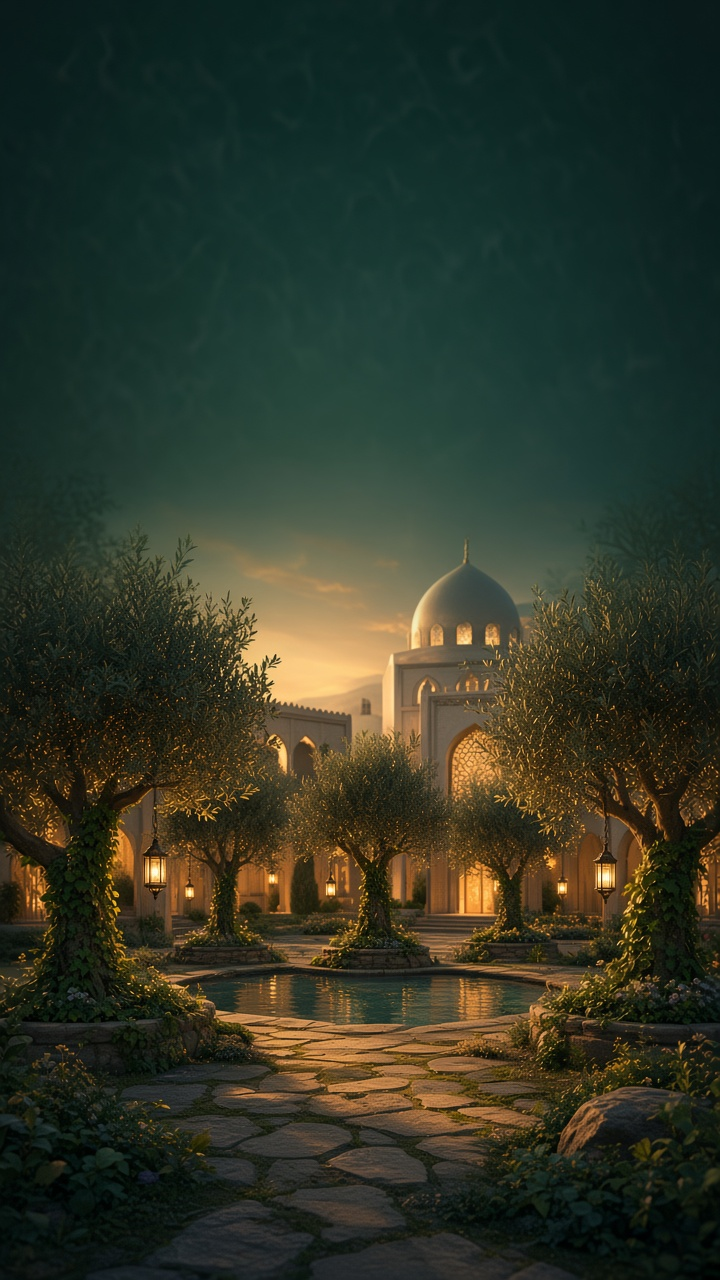
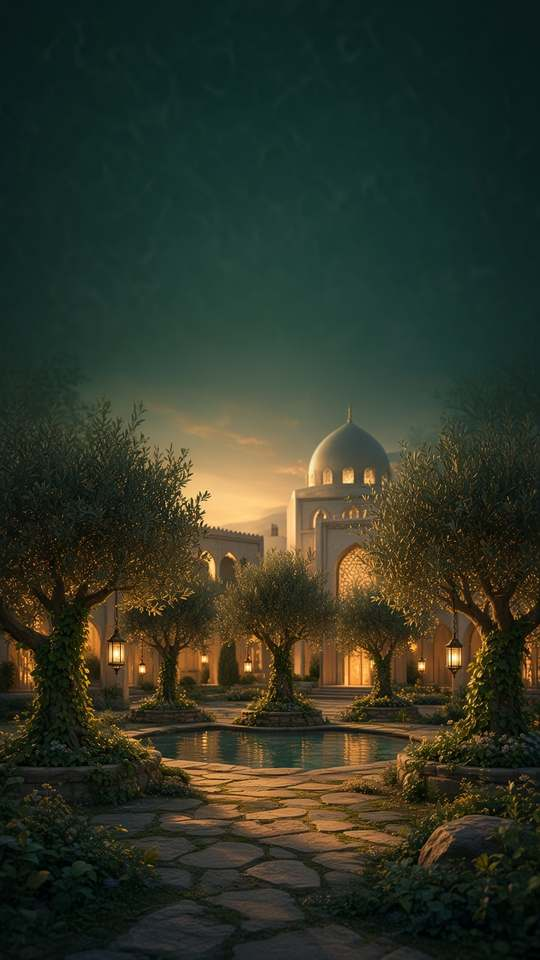
Cut the first-visit cost that kept Lighthouse under 80.
Drop Payload's critical colour-scheme hint, stop the Google font sheet blocking first paint, and shrink the courtyard scenes. Course thumbs lazy-load, feed tiles no longer pull full-bleed slides, and the Me page paints its saved example and install row in the first HTML so the page does not jump.

diff --git a/hearts-prototype/src/screens/app/course-home.tsx b/hearts-prototype/src/screens/app/course-home.tsx
@@ -66,6 +66,15 @@ function Tick({ on }: { on: boolean }) {
   return <i className={on ? 'on' : ''} data-done={on ? 'yes' : 'no'} />
 }
 
+function Thumb({ src, eager }: { src: string | null; eager?: boolean }) {
+  if (!src) return <span className="thumb" />
+  return (
+    <span className="thumb">
+      <img src={src} alt="" decoding="async" loading={eager ? 'eager' : 'lazy'} fetchPriority={eager ? 'high' : 'low'} />
+    </span>
+  )
+}
+
 export async function CourseHomeScreen({ payload, user, portal, base, query }: Ctx) {
   const courseIds = await visibleCourseIds(payload, user)
   const [courses, lessonRows, unitRows] = await Promise.all([
@@ -96,7 +105,7 @@ export async function CourseHomeScreen({ payload, user, portal, base, query }: C
         <div className="app-head"><h1>Courses</h1></div>
         {carry?.next ? (
           <article className="carry-on" data-testid="carry-on">
-            <span className="thumb" style={carry.poster ? { backgroundImage: `url(${carry.poster})` } : undefined} />
+            <Thumb src={carry.poster} eager />
             <p className="eyebrow">Carry on</p>
             <h2>{carry.nextAt + 1}. {str(carry.next.title)}</h2>
             <p className="muted">{str(carry.course.title)} · {carry.finished} of {carry.own.length} films</p>
@@ -105,7 +114,7 @@ export async function CourseHomeScreen({ payload, user, portal, base, query }: C
           </article>
         ) : <p className="card">Films will show here once a course is added.</p>}
         <div className="course-cards">
-          {cards.map((card) => {
+          {cards.map((card, index) => {
             const groups: { title: string; count: number }[] = []
             for (const lesson of card.own) {
               const title = unitTitle.get(ref(lesson.unit) || 0) || 'Films'
@@ -115,7 +124,7 @@ export async function CourseHomeScreen({ payload, user, portal, base, query }: C
             }
             return (
               <Link key={card.course.id} className="course-card" href={`${base}/course/${card.course.id}`} data-testid="course-card">
-                <span className="thumb" style={card.poster ? { backgroundImage: `url(${card.poster})` } : undefined} />
+                <Thumb src={card.poster} eager={index < 2} />
                 <span className="t">
                   <b>{str(card.course.title)}</b>
                   <small>{card.own.length} film{card.own.length === 1 ? '' : 's'}</small>

diff --git a/hearts-prototype/src/components/app/install-card.tsx b/hearts-prototype/src/components/app/install-card.tsx
@@ -45,13 +45,23 @@ function readState(): InstallState {
 }
 
 function readSurface(kind: InstallState['kind']) {
+  if (typeof window === 'undefined') return kind === 'desktop' ? 'computer' : 'phone'
   const narrow = typeof window.matchMedia === 'function' && window.matchMedia('(max-width: 720px)').matches
   const coarse = typeof window.matchMedia === 'function' && window.matchMedia('(pointer: coarse)').matches
   return installSurface(kind, { narrow, coarse })
 }
 
+const serverInstallState: InstallState = {
+  kind: 'android-chrome',
+  standalone: false,
+  dismissed: false,
+  installed: false,
+  prompt: false,
+}
+
 function useInstallState() {
-  const [state, setState] = useState<InstallState | null>(null)
+  // Paint the row with the HTML so it does not pop in after hydration and shift the page.
+  const [state, setState] = useState<InstallState>(serverInstallState)
   useEffect(() => {
     const sync = () => setState(readState())
     sync()
@@ -72,7 +82,6 @@ function useInstallState() {
 export function InstallCard({ forced = false, onDismiss, sheet = false, strip = false, appName = 'HEARTS' }: { forced?: boolean; onDismiss?: () => void; sheet?: boolean; strip?: boolean; appName?: string }) {
   const [state, setState] = useInstallState()
   const [busy, setBusy] = useState(false)
-  if (!state) return null
   const prompt = state.prompt && offersInstallButton(state.kind)
   if (!shouldShowInstall({ standalone: state.standalone, dismissed: state.dismissed, installed: state.installed, forced })) return null
   const surface = readSurface(state.kind)
@@ -159,7 +168,6 @@ export function KeepHearts({ appName = 'HEARTS' }: { appName?: string }) {
   const [state] = useInstallState()
   const [open, setOpen] = useState(false)
   const [run, setRun] = useState(0)
-  if (!state) return null
   const installed = state.installed || state.standalone
   const entry = installEntry(state.kind, installed, readSurface(state.kind), appName)
   const show = () => {

diff --git a/hearts-prototype/src/app/(frontend)/layout.tsx b/hearts-prototype/src/app/(frontend)/layout.tsx
@@ -55,10 +55,26 @@ export default function Layout({ children }: { children: ReactNode }) {
         <script dangerouslySetInnerHTML={{ __html: installBootScript() }} />
         <link rel="preconnect" href="https://fonts.googleapis.com" />
         <link rel="preconnect" href="https://fonts.gstatic.com" crossOrigin="" />
+        <link rel="preload" as="font" type="font/woff2" href="/fonts/inter-latin-400-normal.woff2" crossOrigin="" />
+        <link rel="preload" as="font" type="font/woff2" href="/fonts/plus-jakarta-sans-latin-700-normal.woff2" crossOrigin="" />
+        {/* Printed first so the sheet does not block the first paint, then applied on load. */}
         <link
-          href="https://fonts.googleapis.com/css2?family=Cormorant+Garamond:ital,wght@0,500;0,600;0,700;1,500&family=Inter:wght@400;500;600;700;800&family=Libre+Caslon+Text:wght@400;700&family=Noto+Naskh+Arabic:wght@500;600&display=swap"
+          id="hh-google-fonts"
           rel="stylesheet"
+          media="print"
+          href="https://fonts.googleapis.com/css2?family=Cormorant+Garamond:ital,wght@0,500;0,600;0,700;1,500&family=Inter:wght@400;500;600;700;800&family=Libre+Caslon+Text:wght@400;700&family=Noto+Naskh+Arabic:wght@500;600&display=swap"
         />
+        <script
+          dangerouslySetInnerHTML={{
+            __html: `(function(){var l=document.getElementById('hh-google-fonts');if(!l)return;l.onload=function(){this.media='all'}})();`,
+          }}
+        />
+        <noscript>
+          <link
+            rel="stylesheet"
+            href="https://fonts.googleapis.com/css2?family=Cormorant+Garamond:ital,wght@0,500;0,600;0,700;1,500&family=Inter:wght@400;500;600;700;800&family=Libre+Caslon+Text:wght@400;700&family=Noto+Naskh+Arabic:wght@500;600&display=swap"
+          />
+        </noscript>
       </head>
       <body suppressHydrationWarning>
         <StageFrameGuard />

diff --git a/hearts-prototype/src/screens/app/home.tsx b/hearts-prototype/src/screens/app/home.tsx
@@ -191,9 +191,12 @@ export async function HomeScreen({ payload, user, portal, base, query, demo }: C
         <p className="eyebrow">Today&apos;s clips <span className="muted" style={{ textTransform: 'none', letterSpacing: 0, fontWeight: 600 }} data-testid="day-number">· Day {dayNumber(user)} with us</span></p>
         <Link className="feed-door" href={`${base}/feed`} data-testid="open-feed">
           <span className="strip">
-            {clips.map((clip) => (
-              <span key={clip.id} className="mini" style={shownPoster(clip.poster) || shownPoster(clip.portrait) ? { backgroundImage: `url(${shownPoster(clip.poster) || shownPoster(clip.portrait)})` } : undefined} />
-            ))}
+            {clips.map((clip) => {
+              const poster = shownPoster(clip.poster) || shownPoster(clip.portrait)
+              // Slide backdrops are full-bleed files. A 64px tile must not download them.
+              const thumb = poster && !poster.includes('/slides/') ? poster : null
+              return <span key={clip.id} className="mini" style={thumb ? { backgroundImage: `url(${thumb})` } : undefined} />
+            })}
           </span>
           <span className="go"><PlayIcon size={22} /> Watch today&apos;s clips</span>
         </Link>

diff --git a/hearts-prototype/src/components/app/saved-list.tsx b/hearts-prototype/src/components/app/saved-list.tsx
@@ -13,7 +13,9 @@ function loadIds() {
 }
 
 export function SavedList({ base }: { base: string }) {
-  const [ids, setIds] = useState<string[] | null>(null)
+  // Empty on the server and the first paint. Reading localStorage later must not
+  // swap a one-line "loading" note for the example card, or the page jumps.
+  const [ids, setIds] = useState<string[]>([])
   const [titles, setTitles] = useState<Record<string, string>>({})
   const [meta, setMeta] = useState<SavedMeta>({})
   const [ready, setReady] = useState(false)
@@ -47,7 +49,7 @@ export function SavedList({ base }: { base: string }) {
       })
       .catch(() => setReady(true))
   }, [ids])
-  if (ids == null || (ids.length > 0 && !ready)) return <p className="muted" data-testid="saved-list">Loading saved clips…</p>
+  if (ids.length > 0 && !ready) return <p className="muted" data-testid="saved-list">Loading saved clips…</p>
   if (!ids.length) {
     return (
       <div data-testid="saved-empty">

diff --git a/hearts-prototype/src/app/(frontend)/app.css b/hearts-prototype/src/app/(frontend)/app.css
@@ -1465,7 +1465,8 @@ html[data-theme] .card.home-plan .eyebrow,
 }
 .sheet .care-lines li { background: #163633; }
 .carry-on, .course-card { display: grid; gap: 8px; margin: 0 0 12px; padding: 12px; border-radius: 16px; background: var(--card, #fff); color: inherit; text-decoration: none; border: 1px solid var(--line, rgba(0,0,0,.08)); }
-.carry-on .thumb, .course-card .thumb { display: block; border-radius: 12px; background: #d9d3c7 center/cover no-repeat; }
+.carry-on .thumb, .course-card .thumb { display: block; border-radius: 12px; background: #d9d3c7 center/cover no-repeat; overflow: hidden; }
+.carry-on .thumb img, .course-card .thumb img { width: 100%; height: 100%; object-fit: cover; display: block; }
 .carry-on .thumb { height: 148px; }
 .course-card { grid-template-columns: 72px 1fr; align-items: center; }
 .course-card .thumb { width: 72px; height: 72px; }

diff --git a/hearts-prototype/tests/e2e/visual-qa.spec.ts b/hearts-prototype/tests/e2e/visual-qa.spec.ts
@@ -132,7 +132,18 @@ async function signIn(page: Page, email: string, password: string, next: string)
 
 async function settle(page: Page) {
   await page.addStyleTag({ content: 'nextjs-portal, [data-nextjs-toast], [data-next-badge-root] { display: none !important; }' }).catch(() => undefined)
-  await page.evaluate(() => document.fonts.ready).catch(() => undefined)
+  await page.evaluate(async () => {
+    const sheet = document.getElementById('hh-google-fonts') as HTMLLinkElement | null
+    if (sheet && sheet.media === 'print') {
+      await new Promise<void>((resolve) => {
+        const done = () => resolve()
+        sheet.addEventListener('load', done, { once: true })
+        if (sheet.sheet) done()
+      })
+      sheet.media = 'all'
+    }
+    await document.fonts.ready
+  }).catch(() => undefined)
   await page.waitForTimeout(200)
 }
 
